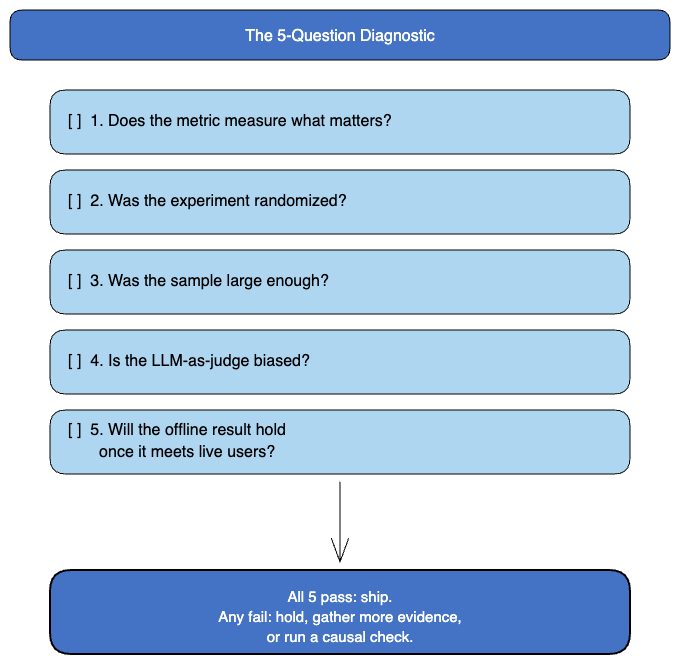
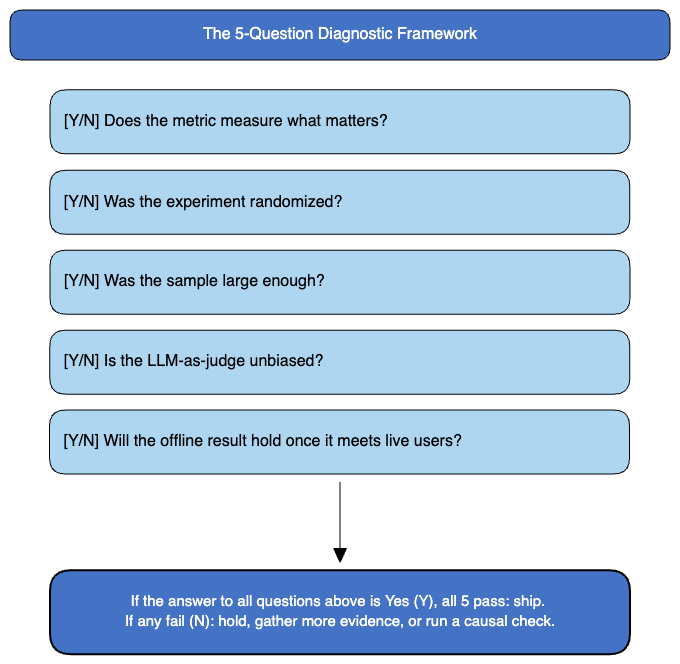
Update online vs offline diagram and add 5-question diagnostic diagram
Refreshes the online-vs-offline evaluation diagram to match the latest
source and embeds the 5-question diagnostic diagram in the README
checklist section.

diff --git a/README.md b/README.md
@@ -53,6 +53,8 @@ Python 3.10+ is recommended. No API keys are required. All data is synthetic and
 
 Before you act on any eval result, run it through five questions. The one-page version is in [`5-question-llm-eval-checklist.md`](5-question-llm-eval-checklist.md).
 
+![The 5-question diagnostic framework](assets/five-question-diagnostic-diagram.png)
+
 1. Was the comparison randomized, or are you reading a confound?
 2. Does the metric measure what matters in production?
 3. Was the sample large enough to detect the effect you care about?
